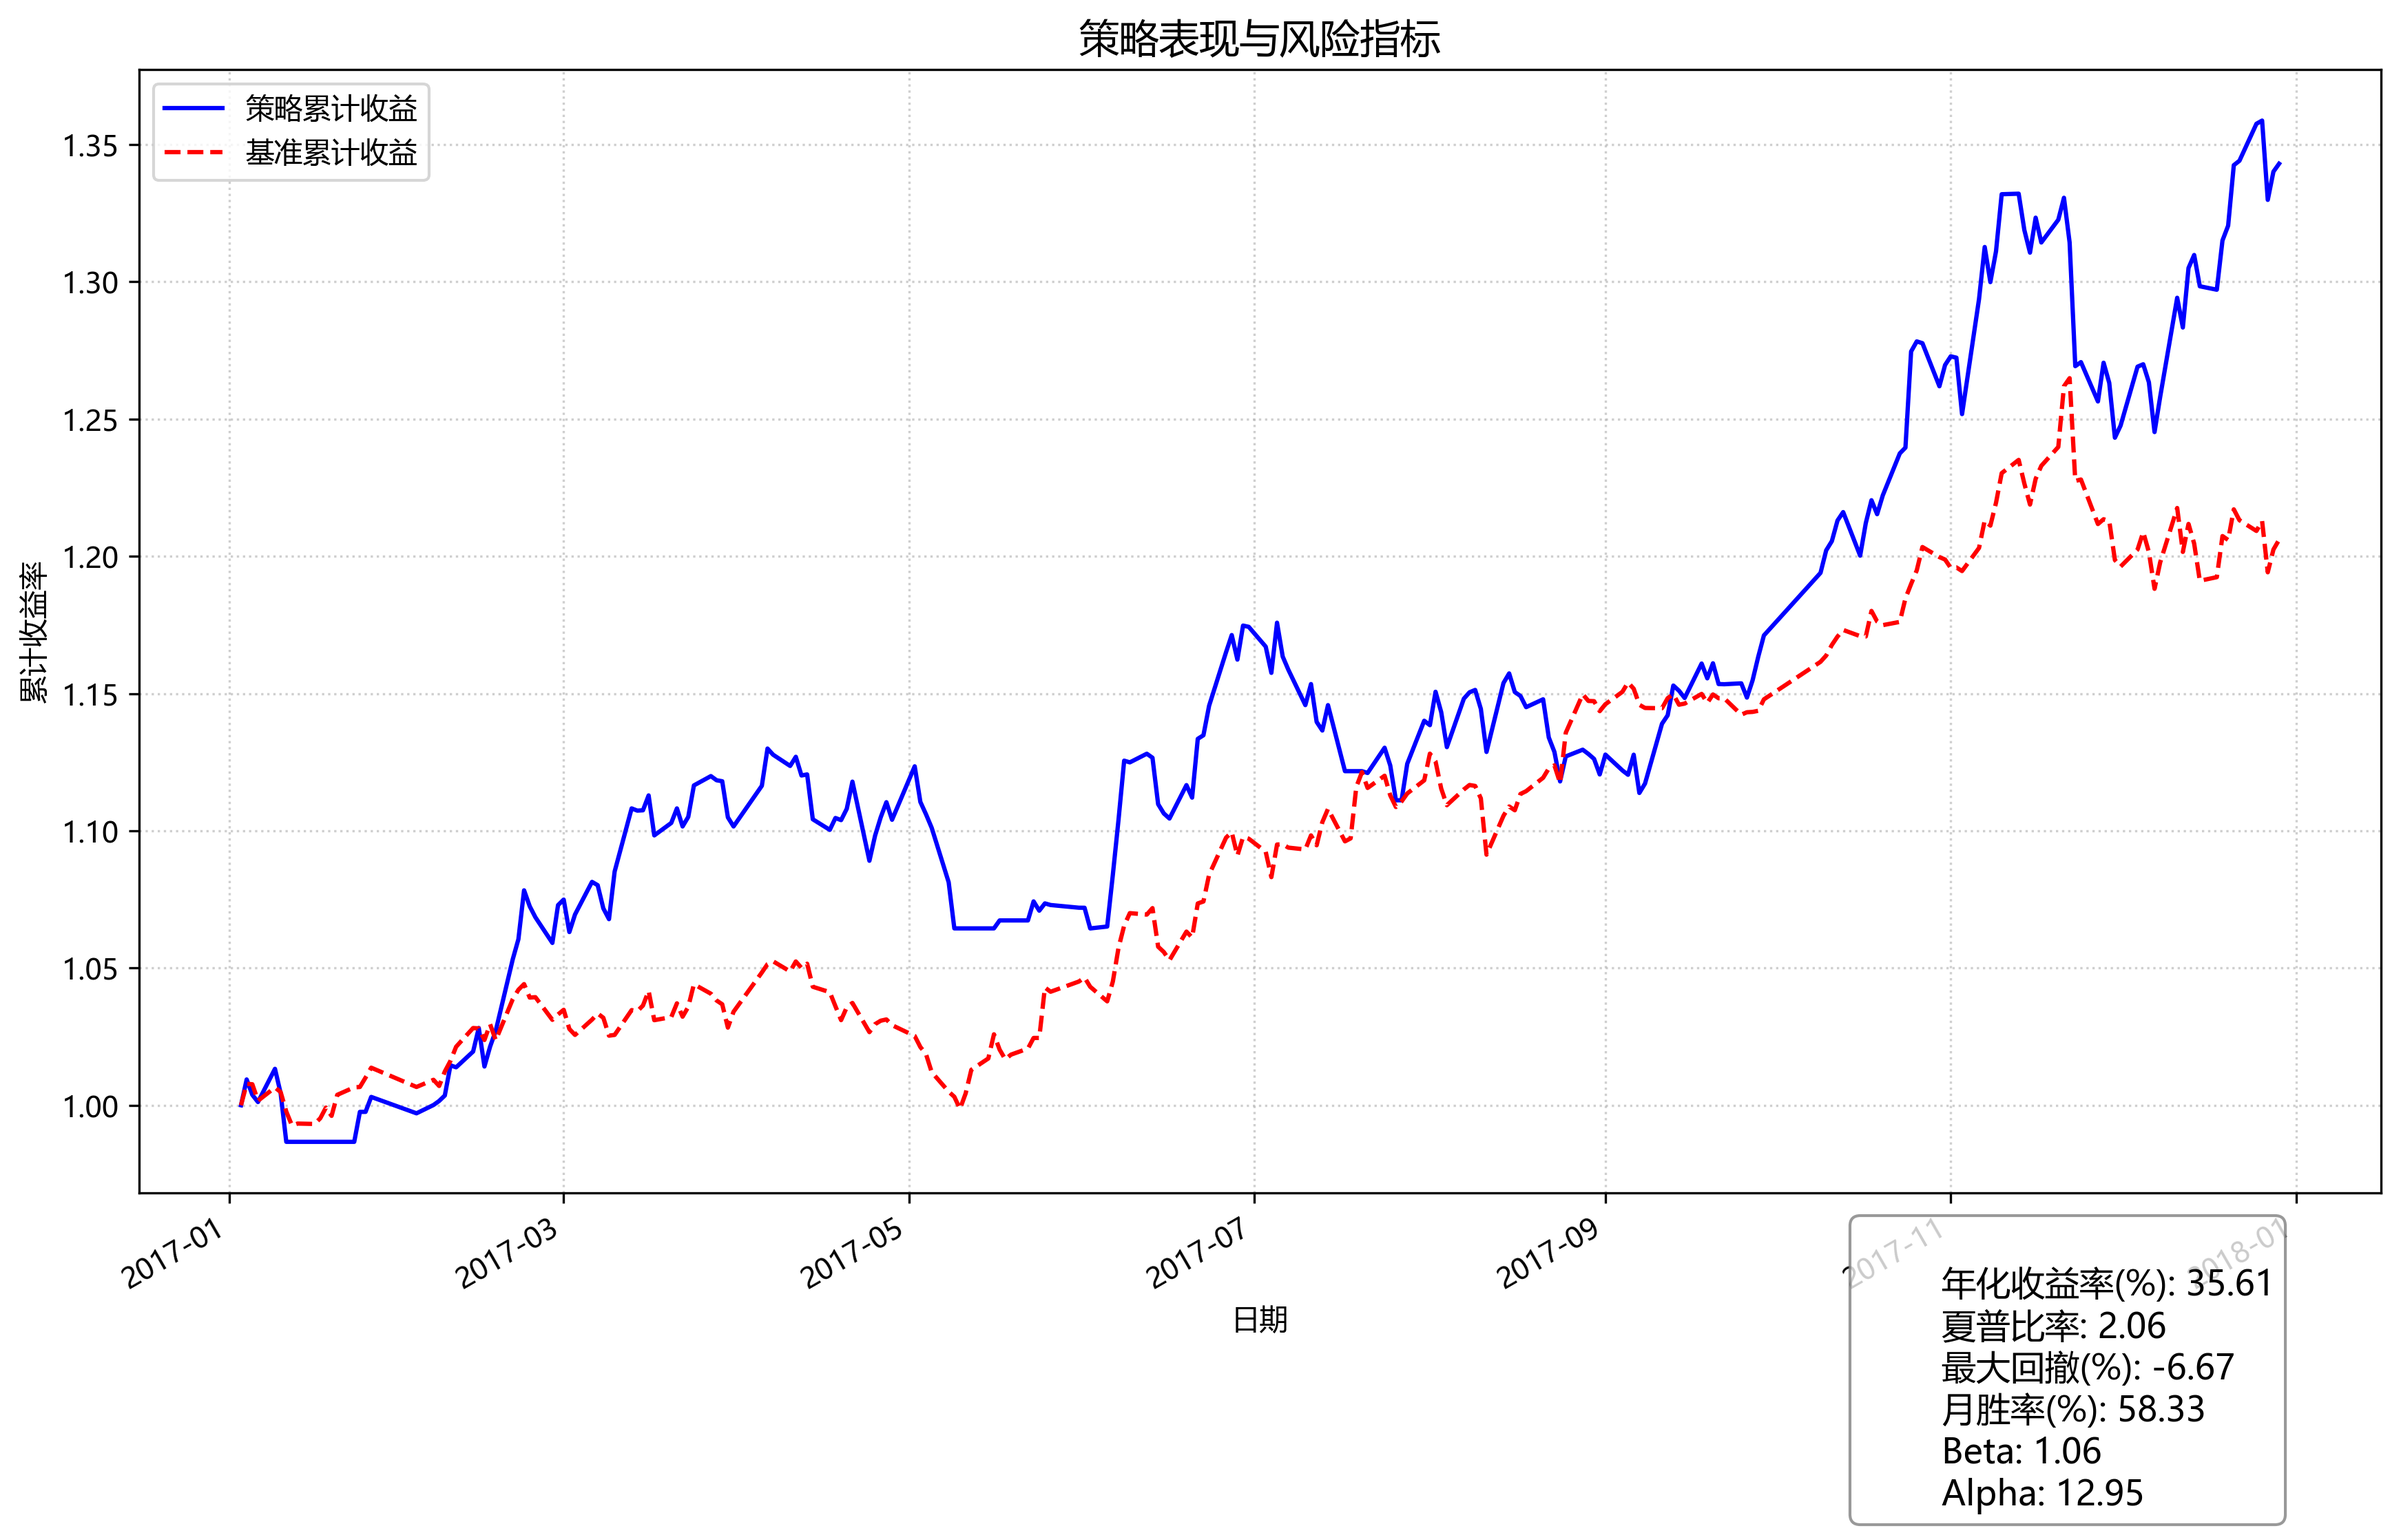
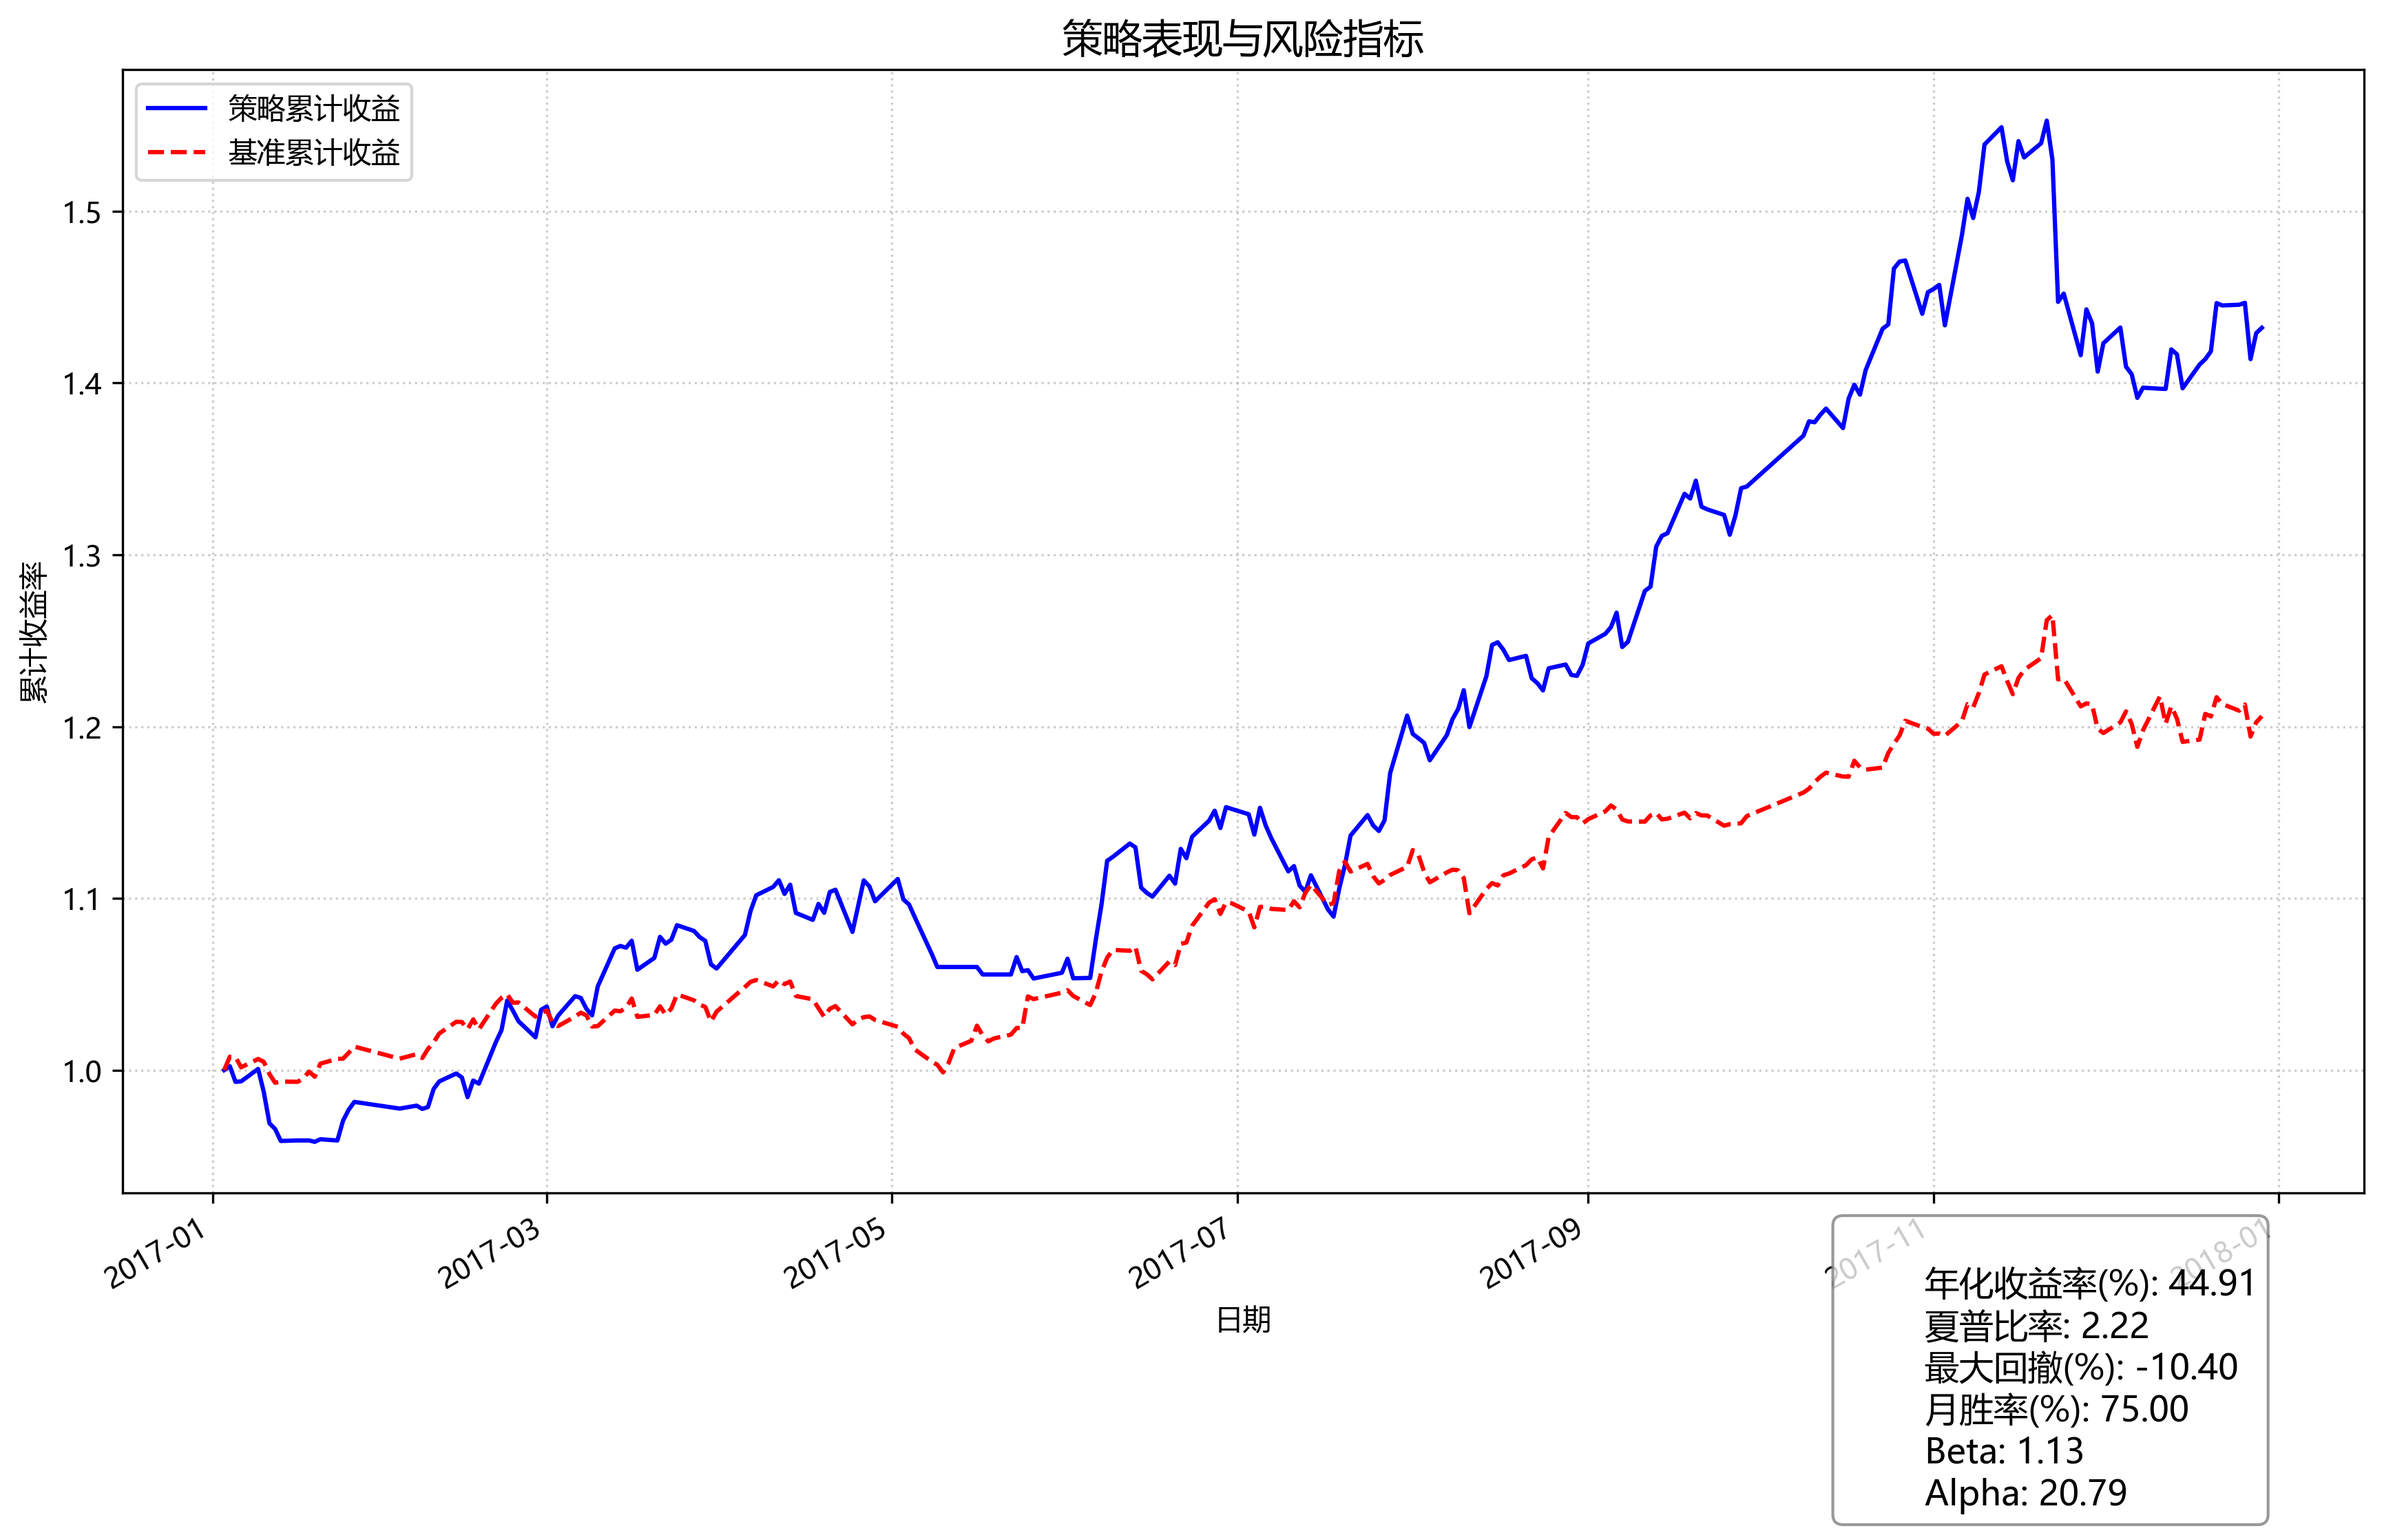
dev

diff --git a/simple_backtrade/strategy/kaimin.py b/simple_backtrade/strategy/kaimin.py
@@ -113,8 +113,9 @@ class BaseStrategy:
         base_m20_t0=baseline_data.iloc[-1-20:-1].mean()
         base_m60_t1=baseline_data.head(60).mean()
         base_m60_t0=baseline_data.tail(60).mean()
-
         baseline_negative=(base_m60_t0>base_m20_t0 and base_m20_t0>baseline and base_m20_t1>base_m20_t0 and base_m60_t1>base_m60_t0)
+        if baseline_negative:
+            return pandas.DataFrame()
 
 
         market_data=self.data_manager.get_daily_market_data(date,self.stock_factors.index)
@@ -140,18 +141,8 @@ class BaseStrategy:
         predict_pe=pe/(1.0+self.stock_factors.history_score/100)
         #predict_pe=pe
 
-        low_estimat_pe=predict_pe[predict_pe<25]
-        recovering_pe=predict_pe[(predict_pe<25)&((m60_t1<m60_t0)&(m60_t0<share_price))].sort_values()
-        strategy_negative=(len(recovering_pe)/len(low_estimat_pe)<0.2)
-        strategy_positive=(len(recovering_pe)/len(low_estimat_pe)>0.7)
-
-        if baseline_negative:
-            if strategy_positive:
-                pass
-            else:
-                return pandas.DataFrame()
-        if strategy_negative:
-            return pandas.DataFrame()
+        low_estimat_pe=predict_pe[predict_pe<30]
+        recovering_pe=predict_pe[(predict_pe<30)&((m60_t1<m60_t0)&(m20_t1<m20_t0)&(m60_t0<m20_t0))].sort_values()
 
         return recovering_pe.head(keeps_num)
     
